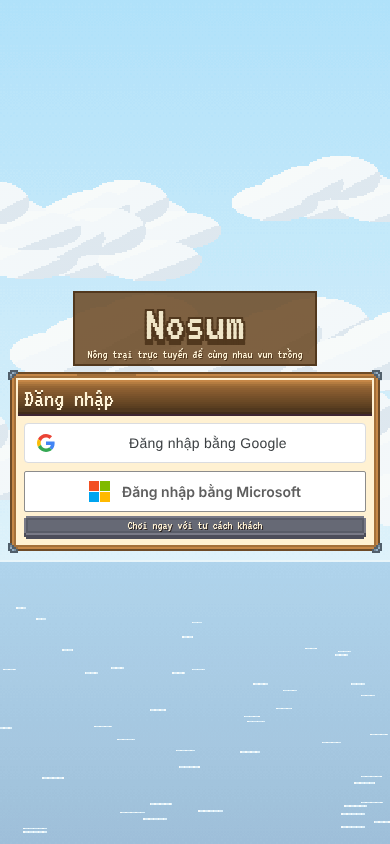
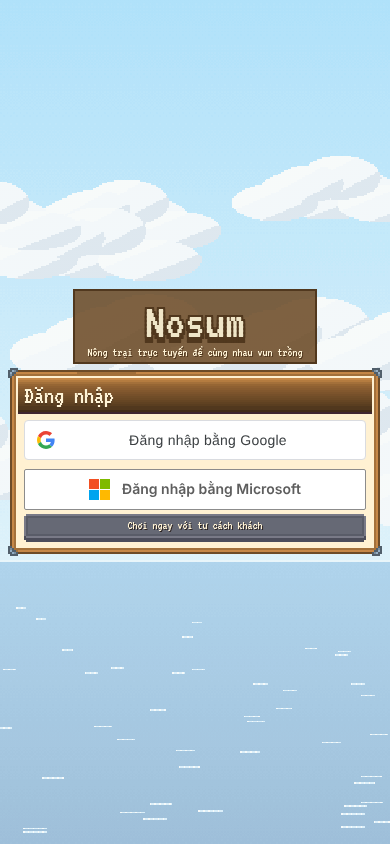
fix(wasm): start-screen buttons are 14 u touch targets
The guest button was 23 px high at 390 px; every button on the start screen now has a 14 u minimum height, as
docs/design/ui-standard.md section 6 asks. The labels keep the body token (nosum-fs-body). On a phone the body token is
12.5 px because the theme's --tp is 1 px there (nosum-theme.js), so the labels look small next to the provider labels;
changing that scale is a game-wide theme decision and is not made here.

Captures at 390x844 are refreshed (first visit, returning visit, providers enabled).

Changed region(s): [[0.0308, 0.3389, 0.9846, 0.6777]]

diff --git a/wasm/Nosum.Wasm/Components/Account/StartScreen.razor.css b/wasm/Nosum.Wasm/Components/Account/StartScreen.razor.css
@@ -78,3 +78,8 @@
         max-width: 100%;
     }
 }
+
+/* Every button of the start screen is a touch target of at least 14 u (docs/design/ui-standard.md section 6). */
+.start-screen ::deep .game-button {
+    min-height: calc(var(--u) * 14);
+}
